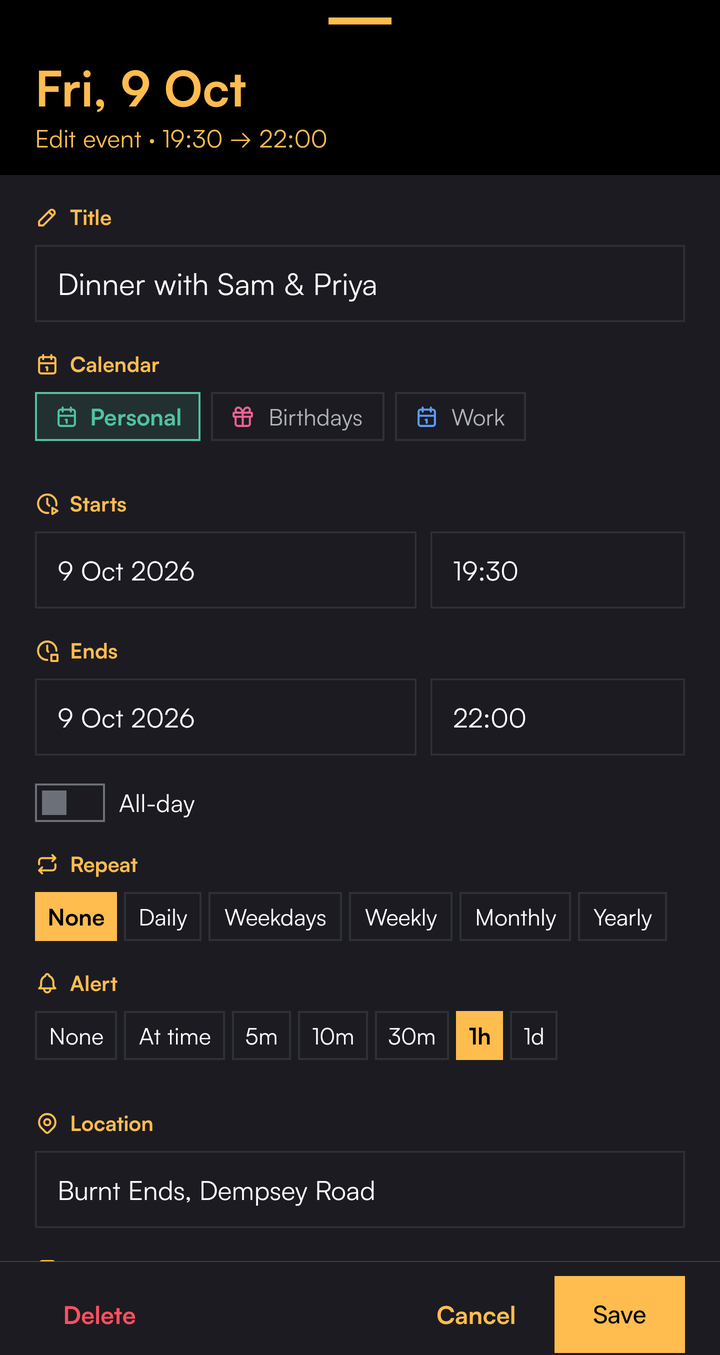
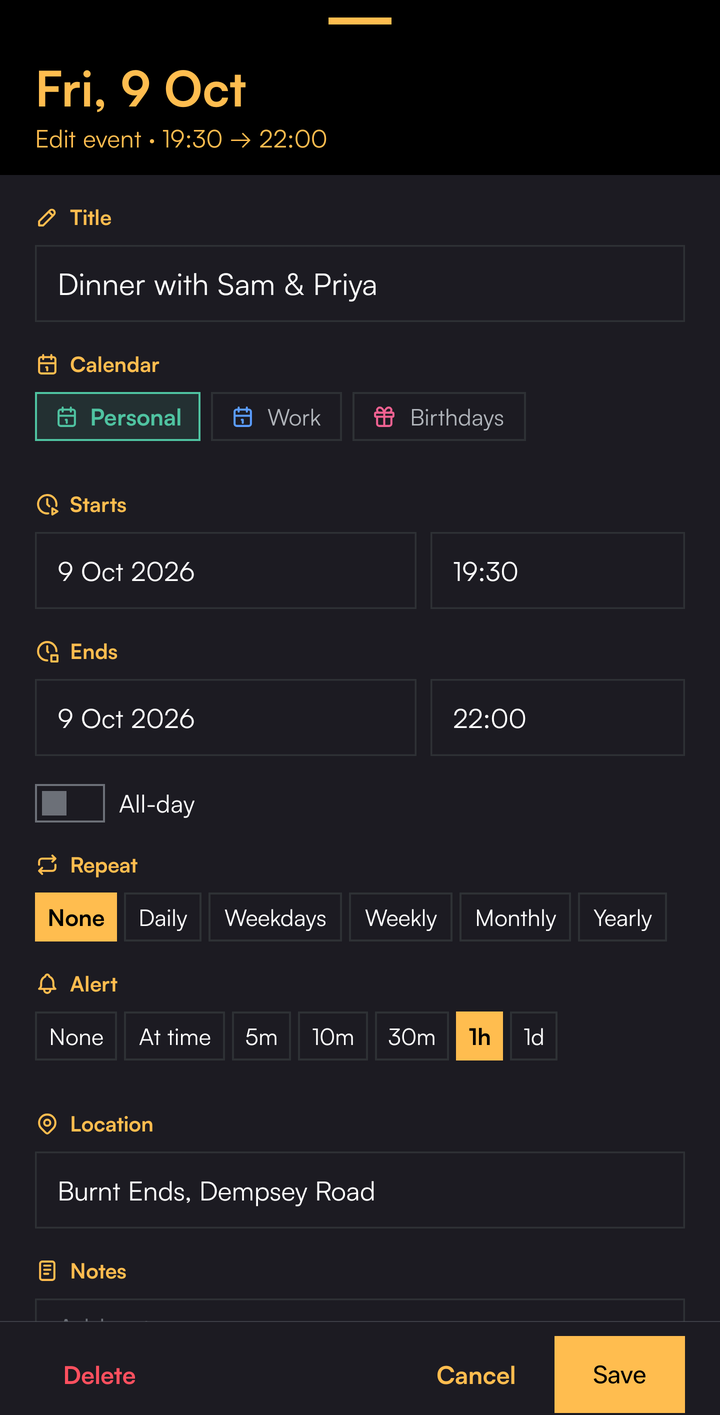
docs(readme): five whole screens in a row, evenly spaced
Widget, month, a day's popover, the editor and Settings, each a full
screen at the same size (only the system bars trimmed), retaken against
the sample calendar with the real ones hidden on the phone, so nothing
had to be cut out. Replaces the two cropped Settings shots with one.

diff --git a/README.md b/README.md
@@ -2,7 +2,7 @@
 
 hitome is a calendar for me.
 
-<img src="docs/screenshots/month.png" alt="The month grid" width="32%" align="top"> <img src="docs/screenshots/day.png" alt="A day's events in a popover over the grid" width="32%" align="top"> <img src="docs/screenshots/editor.png" alt="The event editor" width="32%" align="top"> <img src="docs/screenshots/widget.png" alt="The home-screen agenda widget" width="32%" align="top"> <img src="docs/screenshots/settings-sync.png" alt="Settings: sync and calendars" width="32%" align="top"> <img src="docs/screenshots/settings-notifications.png" alt="Settings: notifications and reminder preview" width="32%" align="top">
+<img src="docs/screenshots/widget.png" alt="The home-screen agenda widget" width="18%"> &nbsp; <img src="docs/screenshots/month.png" alt="The month grid" width="18%"> &nbsp; <img src="docs/screenshots/day.png" alt="A day's events in a popover over the grid" width="18%"> &nbsp; <img src="docs/screenshots/editor.png" alt="Editing an event" width="18%"> &nbsp; <img src="docs/screenshots/settings.png" alt="Settings" width="18%">
 
 # Capabilities
 
